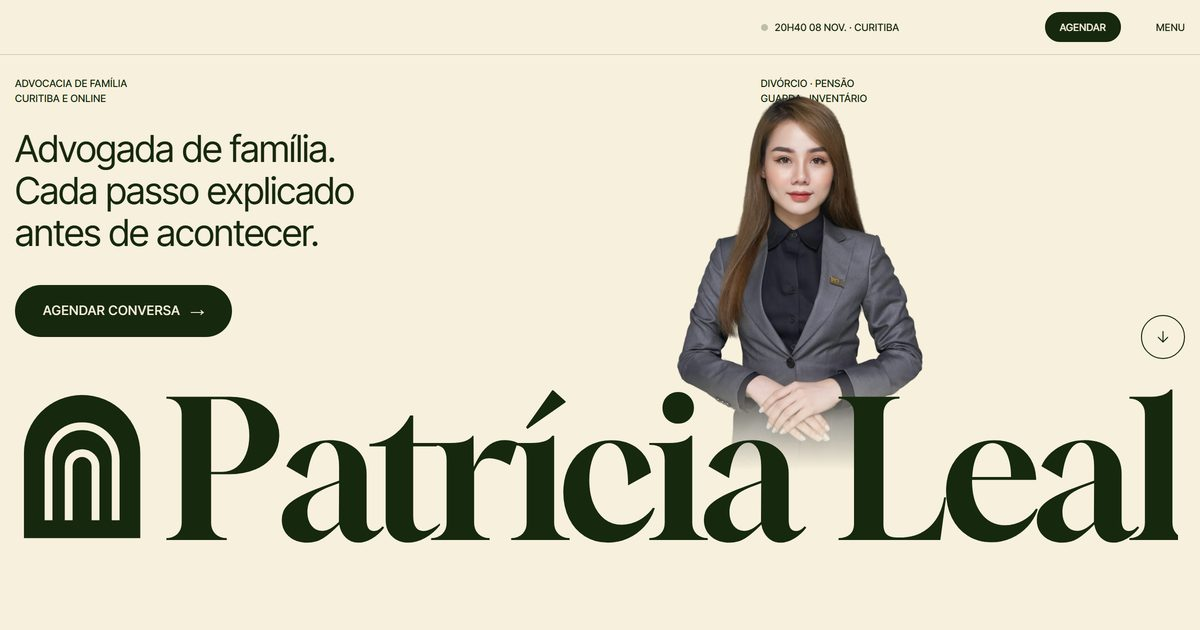
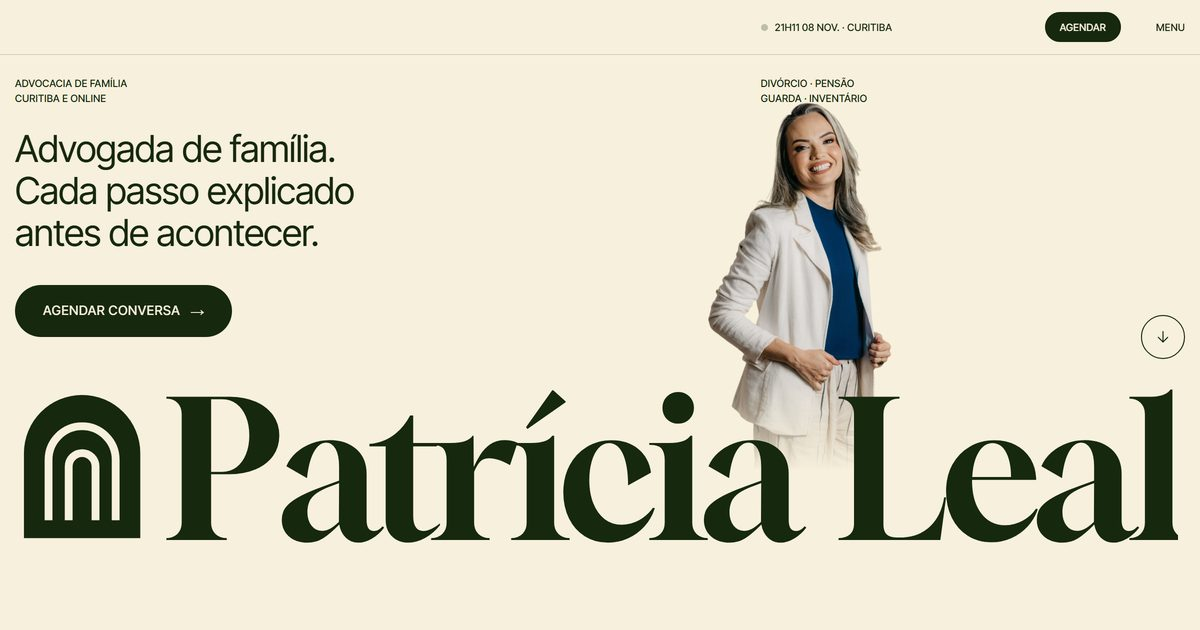
Imagem de compartilhamento da Patrícia

Changed region(s): [[0.555, 0.1508, 0.7708, 0.7238], [0.6475, 0.0302, 0.74, 0.0603]]

diff --git a/sites/patricia-leal/privacidade.html b/sites/patricia-leal/privacidade.html
@@ -23,11 +23,11 @@
 <meta property="og:description" content="Política de privacidade da Patrícia Leal Advocacia: quais dados o site coleta, para que usa, sigilo profissional, por quanto tempo guarda e como exercer seus direitos pela LGPD.">
 <meta property="og:type" content="website">
 
-<meta property="og:image" content="https://bluerose-store.com/img/og/sites/patricia-leal.jpg?v=5">
+<meta property="og:image" content="https://bluerose-store.com/img/og/sites/patricia-leal.jpg?v=6">
 <meta property="og:image:width" content="1200">
 <meta property="og:image:height" content="630">
 <meta name="twitter:card" content="summary_large_image">
-<meta name="twitter:image" content="https://bluerose-store.com/img/og/sites/patricia-leal.jpg?v=5">
+<meta name="twitter:image" content="https://bluerose-store.com/img/og/sites/patricia-leal.jpg?v=6">
 </head>
 <body data-slug="patricia-leal" data-marca="Dra. Patrícia Leal" data-cat="advocacia">
 <a class="pular" href="#conteudo">Pular para o conteúdo</a>

diff --git a/sites/patricia-leal/area-pensao.html b/sites/patricia-leal/area-pensao.html
@@ -23,11 +23,11 @@
 <meta property="og:description" content="Pedido, revisão, exoneração e cobrança de pensão alimentícia em Curitiba e online. Pensão provisória, alimentos gravídicos e cobrança de atrasados explicados.">
 <meta property="og:type" content="website">
 
-<meta property="og:image" content="https://bluerose-store.com/img/og/sites/patricia-leal.jpg?v=5">
+<meta property="og:image" content="https://bluerose-store.com/img/og/sites/patricia-leal.jpg?v=6">
 <meta property="og:image:width" content="1200">
 <meta property="og:image:height" content="630">
 <meta name="twitter:card" content="summary_large_image">
-<meta name="twitter:image" content="https://bluerose-store.com/img/og/sites/patricia-leal.jpg?v=5">
+<meta name="twitter:image" content="https://bluerose-store.com/img/og/sites/patricia-leal.jpg?v=6">
 </head>
 <body data-slug="patricia-leal" data-marca="Dra. Patrícia Leal" data-cat="advocacia">
 <a class="pular" href="#conteudo">Pular para o conteúdo</a>

diff --git a/sites/patricia-leal/areas.html b/sites/patricia-leal/areas.html
@@ -23,11 +23,11 @@
 <meta property="og:description" content="Divórcio e partilha, pensão alimentícia, guarda e convivência, inventário e herança: as quatro áreas da advocacia de família da Dra. Patrícia Leal em Curitiba.">
 <meta property="og:type" content="website">
 
-<meta property="og:image" content="https://bluerose-store.com/img/og/sites/patricia-leal.jpg?v=5">
+<meta property="og:image" content="https://bluerose-store.com/img/og/sites/patricia-leal.jpg?v=6">
 <meta property="og:image:width" content="1200">
 <meta property="og:image:height" content="630">
 <meta name="twitter:card" content="summary_large_image">
-<meta name="twitter:image" content="https://bluerose-store.com/img/og/sites/patricia-leal.jpg?v=5">
+<meta name="twitter:image" content="https://bluerose-store.com/img/og/sites/patricia-leal.jpg?v=6">
 </head>
 <body data-slug="patricia-leal" data-marca="Dra. Patrícia Leal" data-cat="advocacia">
 <a class="pular" href="#conteudo">Pular para o conteúdo</a>

diff --git a/sites/patricia-leal/index.html b/sites/patricia-leal/index.html
@@ -23,11 +23,11 @@
 <meta property="og:description" content="Divórcio, pensão alimentícia, guarda e inventário em Curitiba e online. Entenda o caminho do seu caso, entenda como o juiz analisa a pensão e marque uma conversa.">
 <meta property="og:type" content="website">
 
-<meta property="og:image" content="https://bluerose-store.com/img/og/sites/patricia-leal.jpg?v=5">
+<meta property="og:image" content="https://bluerose-store.com/img/og/sites/patricia-leal.jpg?v=6">
 <meta property="og:image:width" content="1200">
 <meta property="og:image:height" content="630">
 <meta name="twitter:card" content="summary_large_image">
-<meta name="twitter:image" content="https://bluerose-store.com/img/og/sites/patricia-leal.jpg?v=5">
+<meta name="twitter:image" content="https://bluerose-store.com/img/og/sites/patricia-leal.jpg?v=6">
 </head>
 <body data-slug="patricia-leal" data-marca="Dra. Patrícia Leal" data-cat="advocacia">
 <a class="pular" href="#conteudo">Pular para o conteúdo</a>

diff --git a/sites/patricia-leal/contato.html b/sites/patricia-leal/contato.html
@@ -23,11 +23,11 @@
 <meta property="og:description" content="Peça horário para uma conversa de 50 minutos por vídeo ou no Bairro Exemplo, em Curitiba. Formulário, WhatsApp, endereço e horário da Patrícia Leal Advocacia.">
 <meta property="og:type" content="website">
 
-<meta property="og:image" content="https://bluerose-store.com/img/og/sites/patricia-leal.jpg?v=5">
+<meta property="og:image" content="https://bluerose-store.com/img/og/sites/patricia-leal.jpg?v=6">
 <meta property="og:image:width" content="1200">
 <meta property="og:image:height" content="630">
 <meta name="twitter:card" content="summary_large_image">
-<meta name="twitter:image" content="https://bluerose-store.com/img/og/sites/patricia-leal.jpg?v=5">
+<meta name="twitter:image" content="https://bluerose-store.com/img/og/sites/patricia-leal.jpg?v=6">
 </head>
 <body data-slug="patricia-leal" data-marca="Dra. Patrícia Leal" data-cat="advocacia">
 <a class="pular" href="#conteudo">Pular para o conteúdo</a>

diff --git a/sites/patricia-leal/area-divorcio.html b/sites/patricia-leal/area-divorcio.html
@@ -23,11 +23,11 @@
 <meta property="og:description" content="Divórcio consensual em cartório ou na Justiça, divórcio sem acordo, partilha de bens e união estável em Curitiba e online. Caminhos, etapas e documentos.">
 <meta property="og:type" content="website">
 
-<meta property="og:image" content="https://bluerose-store.com/img/og/sites/patricia-leal.jpg?v=5">
+<meta property="og:image" content="https://bluerose-store.com/img/og/sites/patricia-leal.jpg?v=6">
 <meta property="og:image:width" content="1200">
 <meta property="og:image:height" content="630">
 <meta name="twitter:card" content="summary_large_image">
-<meta name="twitter:image" content="https://bluerose-store.com/img/og/sites/patricia-leal.jpg?v=5">
+<meta name="twitter:image" content="https://bluerose-store.com/img/og/sites/patricia-leal.jpg?v=6">
 </head>
 <body data-slug="patricia-leal" data-marca="Dra. Patrícia Leal" data-cat="advocacia">
 <a class="pular" href="#conteudo">Pular para o conteúdo</a>

diff --git a/sites/patricia-leal/sobre.html b/sites/patricia-leal/sobre.html
@@ -23,11 +23,11 @@
 <meta property="og:description" content="Patrícia Leal Advocacia: escritório só de direito de família desde 2010, no Bairro Exemplo e por vídeo. História, forma de trabalho, valores e endereço.">
 <meta property="og:type" content="website">
 
-<meta property="og:image" content="https://bluerose-store.com/img/og/sites/patricia-leal.jpg?v=5">
+<meta property="og:image" content="https://bluerose-store.com/img/og/sites/patricia-leal.jpg?v=6">
 <meta property="og:image:width" content="1200">
 <meta property="og:image:height" content="630">
 <meta name="twitter:card" content="summary_large_image">
-<meta name="twitter:image" content="https://bluerose-store.com/img/og/sites/patricia-leal.jpg?v=5">
+<meta name="twitter:image" content="https://bluerose-store.com/img/og/sites/patricia-leal.jpg?v=6">
 </head>
 <body data-slug="patricia-leal" data-marca="Dra. Patrícia Leal" data-cat="advocacia">
 <a class="pular" href="#conteudo">Pular para o conteúdo</a>

diff --git a/sites/patricia-leal/area-guarda.html b/sites/patricia-leal/area-guarda.html
@@ -23,11 +23,11 @@
 <meta property="og:description" content="Guarda compartilhada, plano de convivência, viagens, mudança de cidade e alienação parental em Curitiba e online. Como funciona e o que separar.">
 <meta property="og:type" content="website">
 
-<meta property="og:image" content="https://bluerose-store.com/img/og/sites/patricia-leal.jpg?v=5">
+<meta property="og:image" content="https://bluerose-store.com/img/og/sites/patricia-leal.jpg?v=6">
 <meta property="og:image:width" content="1200">
 <meta property="og:image:height" content="630">
 <meta name="twitter:card" content="summary_large_image">
-<meta name="twitter:image" content="https://bluerose-store.com/img/og/sites/patricia-leal.jpg?v=5">
+<meta name="twitter:image" content="https://bluerose-store.com/img/og/sites/patricia-leal.jpg?v=6">
 </head>
 <body data-slug="patricia-leal" data-marca="Dra. Patrícia Leal" data-cat="advocacia">
 <a class="pular" href="#conteudo">Pular para o conteúdo</a>

diff --git a/sites/patricia-leal/advogada-patricia.html b/sites/patricia-leal/advogada-patricia.html
@@ -23,11 +23,11 @@
 <meta property="og:description" content="Perfil da Dra. Patrícia Leal, advogada de família desde 2010 e mediadora formada pelo TJPR: formação, áreas de atuação, idiomas e contato.">
 <meta property="og:type" content="website">
 
-<meta property="og:image" content="https://bluerose-store.com/img/og/sites/patricia-leal.jpg?v=5">
+<meta property="og:image" content="https://bluerose-store.com/img/og/sites/patricia-leal.jpg?v=6">
 <meta property="og:image:width" content="1200">
 <meta property="og:image:height" content="630">
 <meta name="twitter:card" content="summary_large_image">
-<meta name="twitter:image" content="https://bluerose-store.com/img/og/sites/patricia-leal.jpg?v=5">
+<meta name="twitter:image" content="https://bluerose-store.com/img/og/sites/patricia-leal.jpg?v=6">
 </head>
 <body data-slug="patricia-leal" data-marca="Dra. Patrícia Leal" data-cat="advocacia">
 <a class="pular" href="#conteudo">Pular para o conteúdo</a>

diff --git a/sites/patricia-leal/area-inventario.html b/sites/patricia-leal/area-inventario.html
@@ -23,11 +23,11 @@
 <meta property="og:description" content="Inventário em cartório ou na Justiça, partilha de herança, ITCMD do Paraná, alvará e testamento em Curitiba e online. Prazos e documentos.">
 <meta property="og:type" content="website">
 
-<meta property="og:image" content="https://bluerose-store.com/img/og/sites/patricia-leal.jpg?v=5">
+<meta property="og:image" content="https://bluerose-store.com/img/og/sites/patricia-leal.jpg?v=6">
 <meta property="og:image:width" content="1200">
 <meta property="og:image:height" content="630">
 <meta name="twitter:card" content="summary_large_image">
-<meta name="twitter:image" content="https://bluerose-store.com/img/og/sites/patricia-leal.jpg?v=5">
+<meta name="twitter:image" content="https://bluerose-store.com/img/og/sites/patricia-leal.jpg?v=6">
 </head>
 <body data-slug="patricia-leal" data-marca="Dra. Patrícia Leal" data-cat="advocacia">
 <a class="pular" href="#conteudo">Pular para o conteúdo</a>

diff --git a/sites/patricia-leal/equipe.html b/sites/patricia-leal/equipe.html
@@ -23,11 +23,11 @@
 <meta property="og:description" content="Conheça quem cuida do seu caso na Patrícia Leal Advocacia: a Dra. Patrícia Leal, a secretária do escritório e a rede de apoio parceira.">
 <meta property="og:type" content="website">
 
-<meta property="og:image" content="https://bluerose-store.com/img/og/sites/patricia-leal.jpg?v=5">
+<meta property="og:image" content="https://bluerose-store.com/img/og/sites/patricia-leal.jpg?v=6">
 <meta property="og:image:width" content="1200">
 <meta property="og:image:height" content="630">
 <meta name="twitter:card" content="summary_large_image">
-<meta name="twitter:image" content="https://bluerose-store.com/img/og/sites/patricia-leal.jpg?v=5">
+<meta name="twitter:image" content="https://bluerose-store.com/img/og/sites/patricia-leal.jpg?v=6">
 </head>
 <body data-slug="patricia-leal" data-marca="Dra. Patrícia Leal" data-cat="advocacia">
 <a class="pular" href="#conteudo">Pular para o conteúdo</a>
